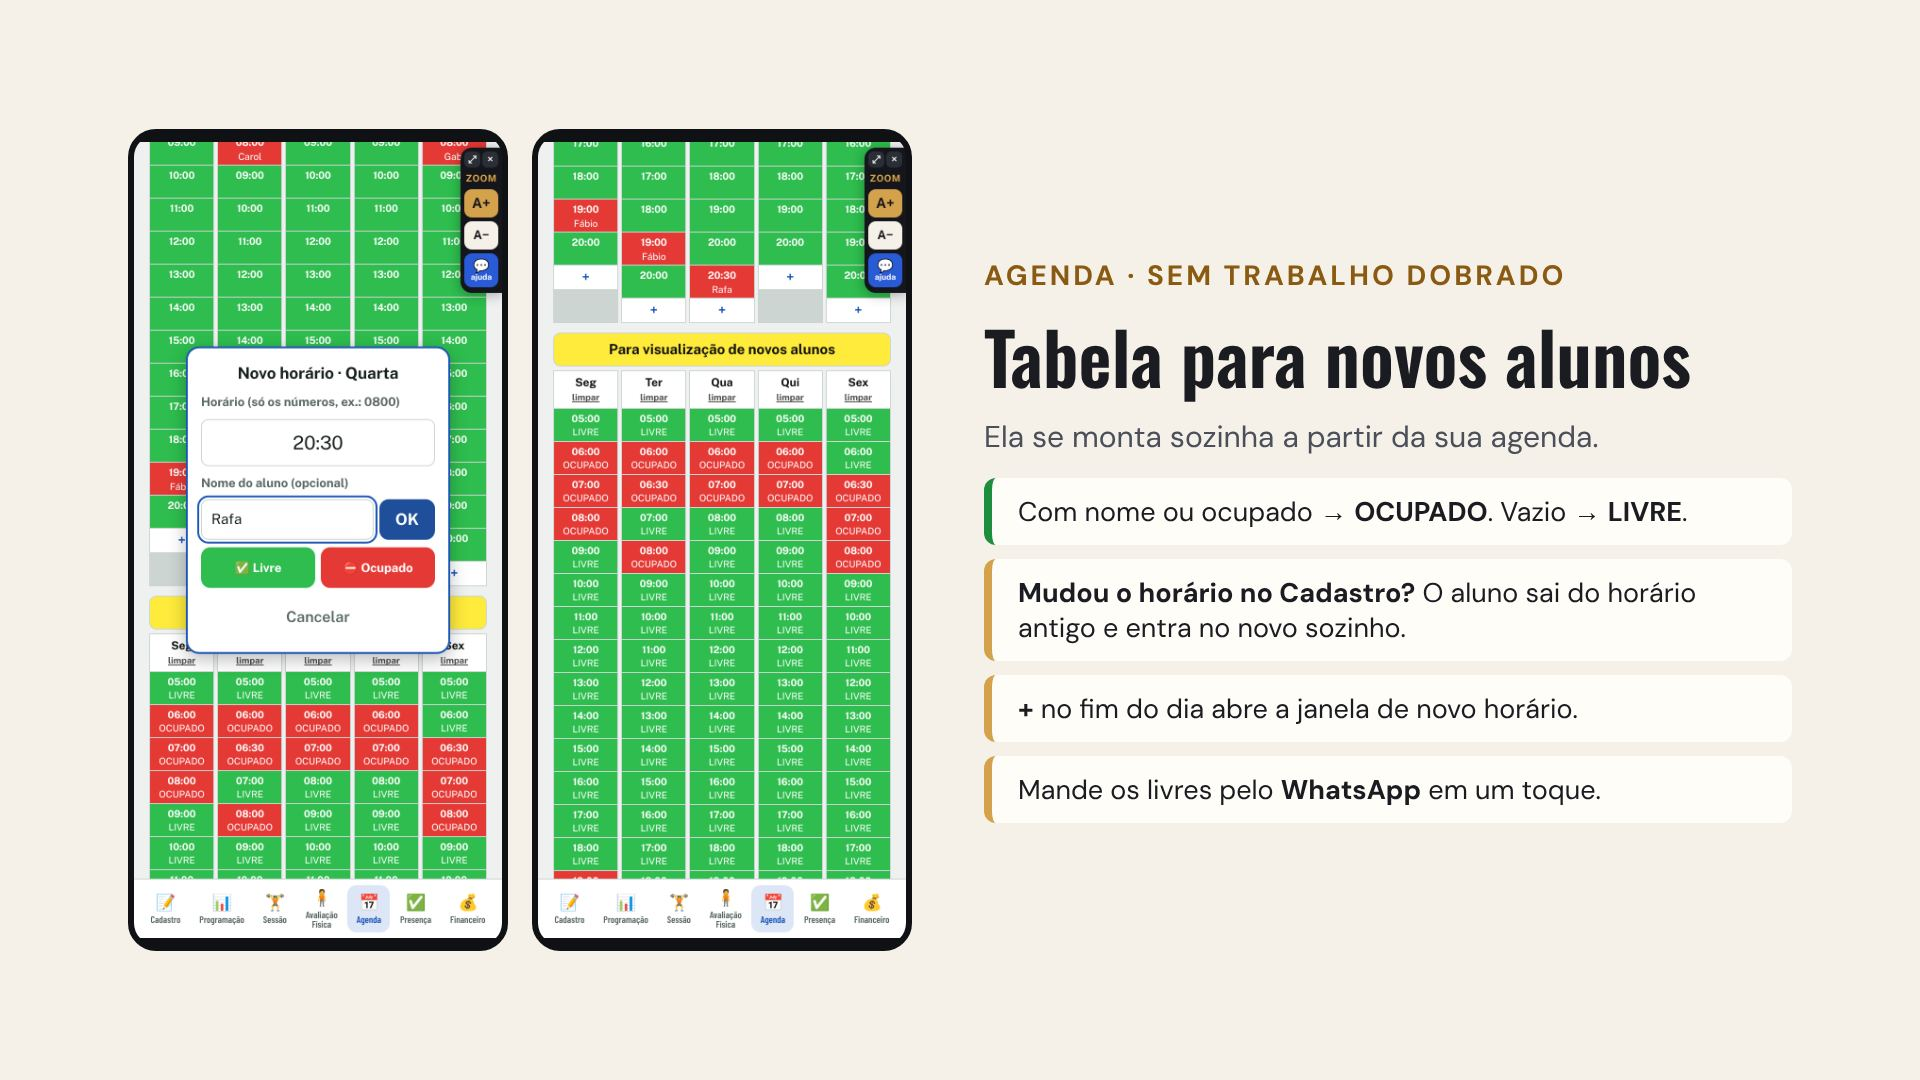
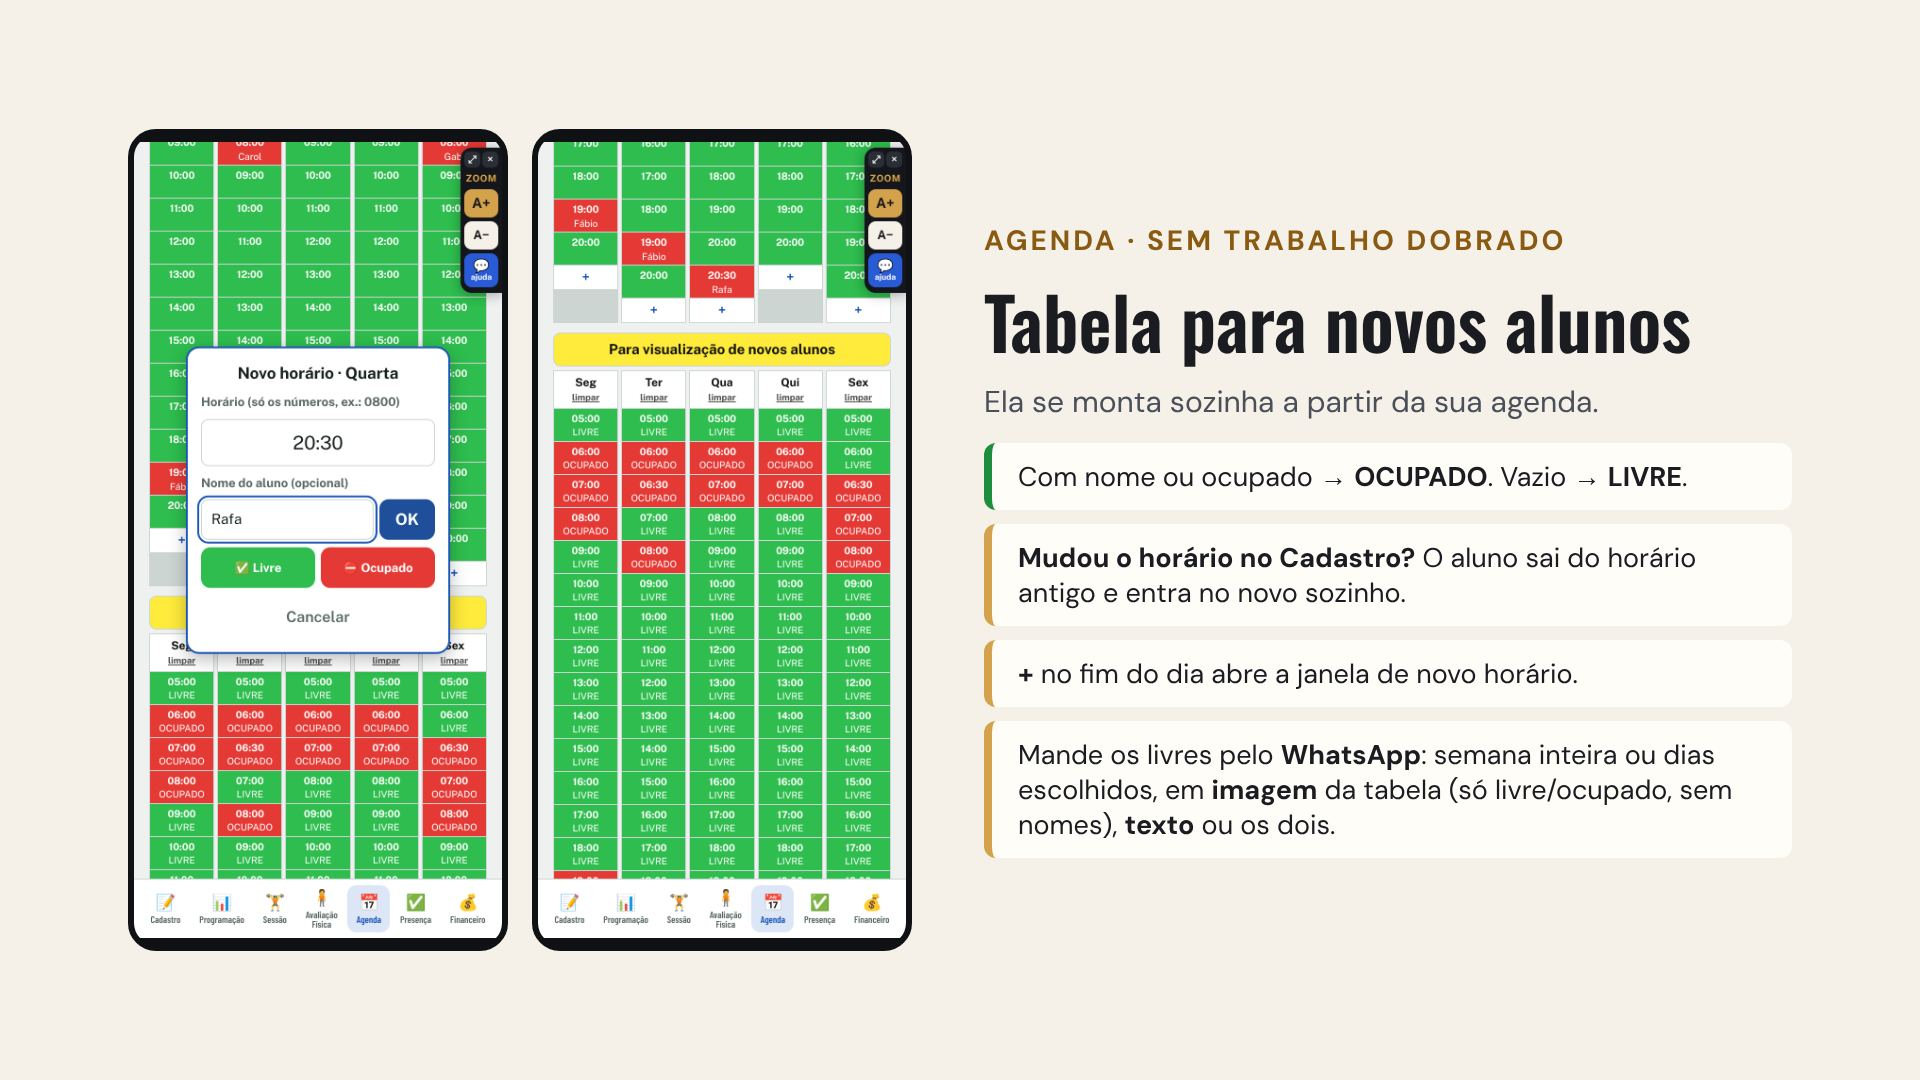
Agenda: enviar horários da semana inteira ou dias escolhidos, em imagem, texto ou os dois; slide atualizado
Claude-Session: https://claude.ai/code/session_01ExiWmKxJX9TgZX8HbSZjPY

Changed region(s): [[0.5, 0.2139, 0.9062, 0.7944]]

diff --git a/index.html b/index.html
@@ -1,4 +1,4 @@
-<!doctype html><html><head><meta charset=utf8><link rel="manifest" href="manifest.webmanifest"><meta name="theme-color" content="#0f1115"><link rel="icon" href="icon-192.png"><link rel="apple-touch-icon" href="icon-192.png"><meta name="apple-mobile-web-app-capable" content="yes"><meta name="mobile-web-app-capable" content="yes"><meta name="apple-mobile-web-app-title" content="Rotina do Personal"><meta name=viewport content="width=device-width,initial-scale=1,viewport-fit=cover"><style>:root{color-scheme:light;box-sizing:border-box;padding-top:env(safe-area-inset-top,0px);padding-bottom:env(safe-area-inset-bottom,0px)}html{scroll-padding-top:env(safe-area-inset-top,0px)}body{margin:0;padding:0;font:14px -apple-system,BlinkMacSystemFont,sans-serif;background:#faf9f5;color:#141413}img{max-width:100%}[hidden]:not([hidden=until-found i]){display:none!important}</style><script>window.RP_BUILD="1792965638";
+<!doctype html><html><head><meta charset=utf8><link rel="manifest" href="manifest.webmanifest"><meta name="theme-color" content="#0f1115"><link rel="icon" href="icon-192.png"><link rel="apple-touch-icon" href="icon-192.png"><meta name="apple-mobile-web-app-capable" content="yes"><meta name="mobile-web-app-capable" content="yes"><meta name="apple-mobile-web-app-title" content="Rotina do Personal"><meta name=viewport content="width=device-width,initial-scale=1,viewport-fit=cover"><style>:root{color-scheme:light;box-sizing:border-box;padding-top:env(safe-area-inset-top,0px);padding-bottom:env(safe-area-inset-bottom,0px)}html{scroll-padding-top:env(safe-area-inset-top,0px)}body{margin:0;padding:0;font:14px -apple-system,BlinkMacSystemFont,sans-serif;background:#faf9f5;color:#141413}img{max-width:100%}[hidden]:not([hidden=until-found i]){display:none!important}</style><script>window.RP_BUILD="1792966564";
 (function(){ var K="rp_upd_try";
   var T0=Date.now(); function chk(){ try{ fetch(location.pathname+"?v="+Date.now(),{cache:"no-store"}).then(function(r){ return r.text(); }).then(function(t){ var m=t.match(/window\.RP_BUILD="(\d+)"/); if(!m||m[1]===window.RP_BUILD) return;
       var tried=sessionStorage.getItem(K); if(Date.now()-T0<15000&&tried!==m[1]){ sessionStorage.setItem(K,m[1]); go(m[1]); return; } showUpd(m[1]); }).catch(function(){}); }catch(e){} }
@@ -390,6 +390,7 @@ body.tab-sessao .top{position:static!important}
 #agview{display:grid;gap:10px;padding-bottom:20px}
 .aghead{display:flex;align-items:center;gap:10px;flex-wrap:wrap}.aghead b{font-size:16px}
 .agwab{width:100%;border:0;border-radius:12px;background:#25D366;color:#fff;font-weight:800;font-size:15px;padding:10px;cursor:pointer}
+.agwach{display:flex;flex-wrap:wrap;gap:6px;margin-top:-4px}.agwc{border:1.5px solid var(--line);background:var(--surface);color:var(--fg);border-radius:999px;padding:6px 11px;font-weight:700;font-size:13px;cursor:pointer}.agwc.on{background:#25D366;border-color:#25D366;color:#fff}.agwaimg{width:100%;border:1px solid var(--line);border-radius:10px}
 .agwa{display:grid;gap:8px;border:1.5px solid #25D366;border-radius:12px;padding:10px;background:var(--surface)}.agwa label{display:grid;gap:3px;font-size:12px;font-weight:600;color:var(--muted)}.agwa textarea{font-size:13.5px}
 .agtools{display:flex;flex-wrap:wrap;gap:6px}.agtip{font-size:12px;margin:0}
 .agtab{display:grid;gap:4px}.agtitle{background:var(--surface);border:1px solid var(--line);border-radius:8px;text-align:center}
@@ -2531,16 +2532,44 @@ function agSync(){ const A2=agData(); let ch=false;
     M.d[k].sort((a,b)=>(a.h||"99").localeCompare(b.h||"99")); }); }
   if(agMirror()) ch=true;
   if(ch) save(); return ch; }
-let agWa=false;
-function agFree(){ const A2=agData(), P=A2.tabs[1]; const out=[]; A2.days.forEach(k=>{ const hs=(P.d[k]||[]).filter(r=>String(r.h||"").trim()&&(r.c==="g"||(!r.c&&!String(r.t||"").trim()))).map(r=>r.h); if(hs.length) out.push([k,hs]); }); return out; }
-function agWaText(){ const F=agFree(); const nm=(BR().nome&&BR().nome!=="Seu nome")? BR().nome : "";
-  return `Olá! Seguem meus horários disponíveis nesta semana:\n\n${F.map(([k,hs])=>`*${AG_DN[k]}*: ${hs.join(", ")}`).join("\n")||"(sem horários livres no momento)"}\n\nMe avise qual fica melhor para você. 😊${nm?`\n${nm}`:""}`; }
-function agWaHTML(){ const L=presOn()? PRES.alunos().filter(a=>a.ativo!==false).sort((a,b)=>a.nome.localeCompare(b.nome,"pt-BR")) : [];
+let agWa=false, agWaD=null, agWaF="both";
+const agWaDays=()=>{ const all=agData().days; return agWaD? all.filter(k=>agWaD.includes(k)) : all; };
+const agOcc=r=> r.c==="r" || (r.c!=="g" && !!String(r.t||"").trim() && !/^livre$/i.test(String(r.t).trim()));
+function agFree(){ const A2=agData(), P=A2.tabs[1]; const out=[]; agWaDays().forEach(k=>{ const hs=(P.d[k]||[]).filter(r=>String(r.h||"").trim()&&!agOcc(r)).map(r=>r.h); if(hs.length) out.push([k,hs]); }); return out; }
+function agWaText(){ const F=agFree(); const nm=(BR().nome&&BR().nome!=="Seu nome")? BR().nome : ""; const D=agWaDays(), all=agData().days.length===D.length;
+  const ttl= all? "nesta semana" : D.length===1? "na "+AG_DN[D[0]].toLowerCase() : "nestes dias";
+  return `Olá! Seguem meus horários disponíveis ${ttl}:\n\n${F.map(([k,hs])=>`*${AG_DN[k]}*: ${hs.join(", ")}`).join("\n")||"(sem horários livres no momento)"}\n\nMe avise qual fica melhor para você. 😊${nm?`\n${nm}`:""}`; }
+/* Imagem da tabela de novos alunos: só LIVRE / OCUPADO (sem nomes de alunos) */
+function agWaCanvas(){ const A2=agData(), P=A2.tabs[1], D=agWaDays(), C=agCores(); const hs=[...new Set(D.flatMap(k=>(P.d[k]||[]).map(r=>agNorm(r.h)).filter(h=>/^\d{2}:\d{2}$/.test(h))))].sort();
+  const W=1080, hw=150, cw=Math.floor((W-40-hw)/Math.max(1,D.length)), rh=58, top=190, H=top+60+rh*Math.max(1,hs.length)+70;
+  const cv=document.createElement("canvas"); cv.width=W; cv.height=H; const g=cv.getContext("2d");
+  g.fillStyle="#FFFFFF"; g.fillRect(0,0,W,H); g.textAlign="center"; g.textBaseline="middle";
+  const nm=(BR().nome&&BR().nome!=="Seu nome")? BR().nome : "";
+  g.fillStyle="#111"; g.font="800 46px system-ui,Arial,sans-serif"; g.fillText("Horários disponíveis",W/2,62);
+  g.fillStyle="#555"; g.font="600 28px system-ui,Arial,sans-serif"; g.fillText(nm? nm+" · Personal Trainer" : "Personal Trainer",W/2,112);
+  const lg=[[C.livre,"Livre"],[C.ocup,"Ocupado"]]; let lx=W/2-170; lg.forEach(([c,t])=>{ g.fillStyle=c; g.fillRect(lx,140,34,26); g.strokeStyle="#999"; g.strokeRect(lx,140,34,26); g.fillStyle="#333"; g.textAlign="left"; g.font="600 26px system-ui,Arial,sans-serif"; g.fillText(t,lx+44,154); lx+=200; }); g.textAlign="center";
+  const x0=20; g.fillStyle=C.cab; g.fillRect(x0,top,W-40,60); g.fillStyle=agInk(C.cab); g.font="800 28px system-ui,Arial,sans-serif"; g.fillText("Horário",x0+hw/2,top+30);
+  D.forEach((k,i)=>g.fillText(AG_DN[k],x0+hw+cw*i+cw/2,top+30));
+  hs.forEach((h,ri)=>{ const y=top+60+rh*ri; g.fillStyle=ri%2?"#F3F4F5":"#FFFFFF"; g.fillRect(x0,y,hw,rh); g.fillStyle="#111"; g.font="800 28px system-ui,Arial,sans-serif"; g.fillText(h,x0+hw/2,y+rh/2);
+    D.forEach((k,i)=>{ const r=(P.d[k]||[]).find(x=>agNorm(x.h)===h); const x=x0+hw+cw*i; let bg="#ECEEF0", tx="—";
+      if(r){ if(agOcc(r)){ bg=C.ocup; tx="OCUPADO"; } else { bg=C.livre; tx="LIVRE"; } }
+      g.fillStyle=bg; g.fillRect(x,y,cw,rh); g.fillStyle=r? agInk(bg) : "#9AA0A6"; g.font=`800 ${cw<150?20:25}px system-ui,Arial,sans-serif`; g.fillText(tx,x+cw/2,y+rh/2); }); });
+  g.strokeStyle="#C9CED3"; g.lineWidth=2; const yb=top+60+rh*hs.length; for(let i=0;i<=D.length;i++){ const x=i===0? x0 : x0+hw+cw*(i-1); g.beginPath(); g.moveTo(x,top); g.lineTo(x,yb); g.stroke(); }
+  g.beginPath(); g.moveTo(x0+hw+cw*D.length,top); g.lineTo(x0+hw+cw*D.length,yb); g.stroke();
+  for(let ri=0;ri<=hs.length+1;ri++){ const y= ri===0? top : top+60+rh*(ri-1); g.beginPath(); g.moveTo(x0,y); g.lineTo(x0+hw+cw*D.length,y); g.stroke(); }
+  if(!hs.length){ g.fillStyle="#777"; g.font="600 28px system-ui,Arial,sans-serif"; g.fillText("Sem horários na tabela de novos alunos",W/2,top+60+rh/2); }
+  g.fillStyle="#555"; g.font="600 26px system-ui,Arial,sans-serif"; g.fillText("Me avise qual fica melhor para você!",W/2,H-36);
+  return cv; }
+function agWaHTML(){ const L=presOn()? PRES.alunos().filter(a=>a.ativo!==false).sort((a,b)=>a.nome.localeCompare(b.nome,"pt-BR")) : []; const all=agData().days, D=agWaDays(), F=agWaF;
+  let prev=""; if(F!=="txt"){ try{ prev=agWaCanvas().toDataURL("image/png"); }catch(e){} }
   return `<div class="agwa"><b>📲 Enviar horários livres no WhatsApp</b>
-    <label>Para quem<select class="inp" id="agWaTo"><option value="">Escolher o contato no WhatsApp</option>${L.map(a=>`<option value="${a.id}" ${String(a.tel||"").replace(/\D/g,"")?"":"disabled"}>${esc(a.nome)}${String(a.tel||"").replace(/\D/g,"")?"":" (sem telefone)"}</option>`).join("")}</select></label>
-    <label>Mensagem (pode editar)<textarea class="inp" id="agWaTxt" rows="8">${esc(agWaText())}</textarea></label>
-    <small class="muted">Os horários livres vêm da tabela de baixo (novos alunos): linhas vazias ou marcadas como livres.</small>
-    <div class="row"><button class="btn primary" data-agwago>Abrir WhatsApp</button><button class="btn ghost" data-agwa>Fechar</button></div></div>`; }
+    <label>Quais dias</label><div class="agwach"><button class="agwc ${!agWaD?"on":""}" data-agwad="all">Semana inteira</button>${all.map(k=>`<button class="agwc ${agWaD&&agWaD.includes(k)?"on":""}" data-agwad="${k}">${k}</button>`).join("")}</div>
+    <label>O que enviar</label><div class="agwach"><button class="agwc ${F==="both"?"on":""}" data-agwaf="both">🖼 + ✍ Imagem e texto</button><button class="agwc ${F==="img"?"on":""}" data-agwaf="img">🖼 Só imagem</button><button class="agwc ${F==="txt"?"on":""}" data-agwaf="txt">✍ Só texto</button></div>
+    ${F==="txt"?`<label>Para quem<select class="inp" id="agWaTo"><option value="">Escolher o contato no WhatsApp</option>${L.map(a=>`<option value="${a.id}" ${String(a.tel||"").replace(/\D/g,"")?"":"disabled"}>${esc(a.nome)}${String(a.tel||"").replace(/\D/g,"")?"":" (sem telefone)"}</option>`).join("")}</select></label>`:`<small class="muted">Com imagem, o celular abre a lista para você escolher o <b>WhatsApp</b> e o contato.</small>`}
+    ${F!=="img"?`<label>Mensagem (pode editar)<textarea class="inp" id="agWaTxt" rows="8">${esc(agWaText())}</textarea></label>`:""}
+    ${prev?`<img class="agwaimg" src="${prev}" alt="Imagem da agenda que será enviada">`:""}
+    <small class="muted">Os horários vêm da tabela de baixo (novos alunos). Na imagem aparece só LIVRE ou OCUPADO, sem o nome dos alunos.</small>
+    <div class="row"><button class="btn primary" data-agwago>${F==="txt"?"Abrir WhatsApp":"Enviar"}</button><button class="btn ghost" data-agwa>Fechar</button></div></div>`; }
 
 const AG_COL={r:"#E53935",g:"#2EBD4E",b:"#26D0E6",y:"#FFEB3B",w:"#FFFFFF",k:"#9E9E9E"};
 const AG_PAL=[["#FFFFFF","Branco"],["#2EBD4E","Verde"],["#E53935","Vermelho"],["#26D0E6","Azul"],["#FFEB3B","Amarelo"],["#FF9800","Laranja"],["#9E9E9E","Cinza"],["#111111","Preto"]];
@@ -2647,6 +2676,13 @@ document.addEventListener("click",e=>{ const b=e.target.closest("button"); if(!b
     agSync(); agMirror(); save(); AG_WH=false; agRender(); toast(n? `Horários criados de ${de} a ${ate}. Toque no horário para marcar livre ou ocupado.` : "Esses horários já estavam na agenda"); return; }
   if(b.hasAttribute("data-agedit")){ agEdit=!agEdit; agRender(); return; }
   if(b.hasAttribute("data-agwa")){ agWa=!agWa; agRender(); return; }
+  if(b.dataset.agwad){ const k=b.dataset.agwad; if(k==="all") agWaD=null; else { const cur=agWaD? agWaD.slice() : []; agWaD= cur.includes(k)? cur.filter(x=>x!==k) : cur.concat(k); if(!agWaD.length||agWaD.length===agData().days.length) agWaD=null; } agRender(); return; }
+  if(b.dataset.agwaf){ agWaF=b.dataset.agwaf; agRender(); return; }
+  if(b.hasAttribute("data-agwago")&&agWaF!=="txt"){ const te=document.getElementById("agWaTxt"), txt=agWaF==="both"&&te? te.value : "";
+    agWaCanvas().toBlob(async blob=>{ const f=new File([blob],"horarios-disponiveis.png",{type:"image/png"});
+      try{ if(navigator.canShare&&navigator.canShare({files:[f]})){ await navigator.share(txt? {files:[f],text:txt} : {files:[f]}); return; } }catch(e){ if(e&&e.name==="AbortError") return; }
+      if(txt){ copyText(txt); toast("Texto copiado: cole no WhatsApp junto com a imagem"); }
+      offerFile(blob,"horarios-disponiveis.png",{share:false}); },"image/png"); return; }
   if(b.hasAttribute("data-agwago")){ const id=document.getElementById("agWaTo").value, txt=document.getElementById("agWaTxt").value; const a=id&&PRES.alunos().find(x=>x.id===id);
     let tel=String((a&&a.tel)||"").replace(/\D/g,""); if(tel&&tel.length<=11) tel="55"+tel.replace(/^0+/,""); const url="https://wa.me/"+tel+"?text="+encodeURIComponent(txt);
     let w=null; try{ w=window.open(url,"_blank"); }catch(err){} if(!w){ const l=document.createElement("a"); l.href=url; l.target="_blank"; l.rel="noopener"; document.body.appendChild(l); l.click(); l.remove(); } return; }
